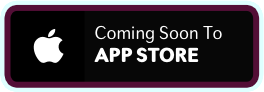
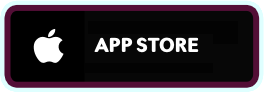
added a few stuff

Changed region(s): [[0.3333, 0.2826, 0.8485, 0.6957]]

diff --git a/reward.html b/reward.html
@@ -59,7 +59,7 @@
 <meta name="twitter:site" content="@superbunnyls">
 <meta name="twitter:creator" content="@dvd_pt">
 <meta name="twitter:image:src" content="https://superbunnylaserspikes.imaginationoverflow.com/img/navbar/MainIcon.png">
-<meta name="twitter:player" content="https://www.youtube.com/watch?v=hj5L66R_sfw">
+<meta name="twitter:player" content="https://www.youtube.com/watch?v=a-fSzt1X_Ig">
 <!-- Twitter - Mobile App (iOS & Android) -->
 <meta name="twitter:app:id:iphone" content="1356606054">
 <meta name="twitter:app:name:iphone" content="Super Bunny Laser Spikes">
@@ -75,7 +75,7 @@
 <meta name="og:image" content="https://superbunnylaserspikes.imaginationoverflow.com/img/navbar/MainIcon.png">
 <meta name="og:url" content="https://superbunnylaserspikes.imaginationoverflow.com">
 <meta name="og:site_name" content="Super Bunny Laser Spikes">
-<meta name="og:video" content="https://www.youtube.com/watch?v=hj5L66R_sfw">
+<meta name="og:video" content="https://www.youtube.com/watch?v=a-fSzt1X_Ig">
 <meta name="og:type" content="website">
 <!-- Open Graph - Mobile App (iOS & Android) -->
 <meta name="al:ios:app_store_id" content="1356606054">
@@ -126,7 +126,7 @@
                 <!-- Collect the nav links, forms, and other content for toggling -->
                 <div class="collapse navbar-collapse" id="bs-example-navbar-collapse-1">
                     <ul class="nav navbar-nav">
-                        <li class="active"><a href="#betaTester">Beta Test</a></li>
+                        <li class="active"><a href="#betaTester">Mailing List</a></li>
 						<li class="active"><a href="https://www.patreon.com/imaginationoverflow/posts?tag=Super%20Bunny%20Laser%20Spikes">Blog</a></li>
 						<li class="active"><a href="https://www.brightlocker.com/games/super-bunny-laser-spikes">Brightlocker</a></li>
 						
@@ -142,10 +142,7 @@
         
         <!--================Banner Nine Area =================-->
         <section class="banner_nine_area" id="home">
-		 <div class="open-popup" >
-                                <a id="deeplink" href="#"  class="open-popup subscribe_button">Open Reward</a>
-
-					   </div>
+		
 					   <script>
 
 							var baseUrl = window.location.href;
@@ -159,25 +156,43 @@
                     <div class="col-md-5">
                         <div class="b_nine_image">
                             <img src="img/header/bunny.png" alt="">
+							
+							
                         </div>
                     </div>
         			<div class="col-md-7">
         				<div class="b_nine_text">
+						
+							<div class="nine_title" style="padding-bottom: 0px;">
+								<h2 style="font-size: 25px;font-family: 'secondasoft-heavyuploadedfile';text-shadow:0 0px 20px #000000;text-transform;
+								text-shadow: #28736C 4px 0px 0px, #28736C 3.87565px 0.989616px 0px, #28736C 3.51033px 1.9177px 0px, #28736C 2.92676px 2.72656px 0px, #28736C 2.16121px 3.36588px 0px, #28736C 1.26129px 3.79594px 0px, #28736C 0.282949px 3.98998px 0px, #28736C -0.712984px 3.93594px 0px, #28736C -1.66459px 3.63719px 0px, #28736C -2.51269px 3.11229px 0px, #28736C -3.20457px 2.39389px 0px, #28736C -3.69721px 1.52664px 0px, #28736C -3.95997px 0.56448px 0px, #28736C -3.97652px -0.432781px 0px, #28736C -3.74583px -1.40313px 0px, #28736C -3.28224px -2.28625px 0px, #28736C -2.61457px -3.02721px 0px, #28736C -1.78435px -3.57996px 0px, #28736C -0.843183px -3.91012px 0px, #28736C 0.150409px -3.99717px 0px, #28736C 1.13465px -3.8357px 0px, #28736C 2.04834px -3.43574px 0px, #28736C 2.83468px -2.82216px 0px, #28736C 3.44477px -2.03312px 0px, #28736C 3.84068px -1.11766px 0px, #28736C 3.9978px -0.132717px 0px" class="nine_title">
+							Click on <font color="#F78E39" style="
+							text-shadow: #63003D 4px 0px 0px, #63003D 3.87565px 0.989616px 0px, #63003D 3.51033px 1.9177px 0px, #63003D 2.92676px 2.72656px 0px, #63003D 2.16121px 3.36588px 0px, #63003D 1.26129px 3.79594px 0px, #63003D 0.282949px 3.98998px 0px, #63003D -0.712984px 3.93594px 0px, #63003D -1.66459px 3.63719px 0px, #63003D -2.51269px 3.11229px 0px, #63003D -3.20457px 2.39389px 0px, #63003D -3.69721px 1.52664px 0px, #63003D -3.95997px 0.56448px 0px, #63003D -3.97652px -0.432781px 0px, #63003D -3.74583px -1.40313px 0px, #63003D -3.28224px -2.28625px 0px, #63003D -2.61457px -3.02721px 0px, #63003D -1.78435px -3.57996px 0px, #63003D -0.843183px -3.91012px 0px, #63003D 0.150409px -3.99717px 0px, #63003D 1.13465px -3.8357px 0px, #63003D 2.04834px -3.43574px 0px, #63003D 2.83468px -2.82216px 0px, #63003D 3.44477px -2.03312px 0px, #63003D 3.84068px -1.11766px 0px, #63003D 3.9978px -0.132717px 0px
+							"><b>OPEN REWARD</b></font> if you have the game installed, if not, install it and come back to collect your reward!
+							</h2>
+							</div>
+							<div class="open-popup" style="padding-left:25%;margin-bottom:24px">
+                                <a id="deeplink"  href="#"  class="open-popup subscribe_button">Open Reward</a>
+							</div>
+							
+						
                             <img class="logo"src="img/header/bunny-logo.png" alt="">
+							
                             <div class="row">
                                 <div class="col-md-4">
                                   <div class="b_header_badges">
-                                        <img class="store_badge" src="img/header/apple-badge.png" alt="">
+                                        <a href="https://itunes.apple.com/us/app/super-bunny-laser-spikes/id1356606054?ls=1&mt=8"><img class="store_badge" src="img/header/apple-badge.png" alt=""></a>
                                   </div>
                                 </div>
                                 <div class="col-md-4">
                                   <div class="b_header_badges">
-                                        <img class="store_badge" src="img/header/android-badge.png" alt="">
+                                        <a href="https://play.google.com/store/apps/details?id=com.imaginationoverflow.superbunnylaserspikes"><img class="store_badge" src="img/header/android-badge.png" alt=""></a>
                                   </div>
                                 </div>
                                 <div class="col-md-4">
                                   <div class="b_header_badges">
-                                        <img class="store_badge" src="img/header/windows-badge.png" alt="">
+								  <a href="https://www.microsoft.com/store/apps/9P970Z51MJMK">
+                                        <img class="store_badge" src="img/header/windows-badge.png" alt=""></a>
                                   </div>
                                 </div>
                             </div>
@@ -194,7 +209,7 @@
 		<div class="container">
 		<style>.embed-container { position: relative; padding-bottom: 56.25%; height: 0; overflow: hidden; max-width: 100%; } .embed-container iframe, .embed-container object, .embed-container embed { position: absolute; top: 0; left: 0; width: 100%; height: 100%;  }</style>
 		
-		<div class='embed-container'><iframe  src='https://www.youtube.com/embed/hj5L66R_sfw' frameborder='0' allowfullscreen></iframe></div>
+		<div class='embed-container'><iframe  src='https://www.youtube.com/embed/a-fSzt1X_Ig' frameborder='0' allowfullscreen></iframe></div>
 		</div>
 		</section>
         <!--================End Banner Nine Area =================-->
@@ -219,9 +234,9 @@
                    <div class="col-md-7">
                         <div class="ab_nine_text">
                             <div class="nine_title">
-                                <h2>Became A Beta Tester</h2>
+                                <h2>Join our mailing list</h2>
                             </div>
-                            <h4>Sign up for beta testing the game or just get an heads up when it gets released!</h4>
+                            <h4>Sign up and get all the news and updates of Super Bunny Laser Spikes directly in your inbox!</h4>
                       
                                 <!--<div id="mc_embed_signup row subscribe_form">
 
@@ -256,7 +271,7 @@
                                 </div>-->
 
                                
-                                <a href="#" id="open-popup" class="open-popup subscribe_button">Join the Beta</a>
+                                <a href="#" id="open-popup" class="open-popup subscribe_button">Join</a>
        
 
 

diff --git a/store.html b/store.html
@@ -1,0 +1,134 @@
+<!DOCTYPE html>
+<html lang="en">
+    <head>
+        <meta charset="utf-8">
+        <meta http-equiv="X-UA-Compatible" content="IE=edge">
+        <meta name="viewport" content="width=device-width, initial-scale=1">
+        
+        <link rel="icon" href="img/favicon-32x32.png" type="image/x-icon" />
+        <link rel="apple-touch-icon" sizes="180x180" href="img/apple-touch-icon.png">
+        <link rel="icon" type="image/png" sizes="32x32" href="img/favicon-32x32.png">
+        <link rel="icon" type="image/png" sizes="16x16" href="img/favicon-16x16.png">
+        <link rel="manifest" href="img/site.webmanifest">
+        <link rel="mask-icon" href="img/safari-pinned-tab.svg" color="#5bbad5">
+        <meta name="msapplication-TileColor" content="#da532c">
+        <meta name="theme-color" content="#ffffff">
+        <!-- The above 3 meta tags *must* come first in the head; any other head content must come *after* these tags -->
+        <title>Super Bunny Laser Spikes</title>
+
+        <!-- Icon css link -->
+        <link href="css/font-awesome.min.css" rel="stylesheet">
+        <link rel="stylesheet" href="css/font-custom.min.css">
+        <link href="css/icofont.css" rel="stylesheet">
+        <link href="vendors/linear-icon/style.css" rel="stylesheet">
+        
+        <!-- Bootstrap -->
+        <link href="css/bootstrap.min.css" rel="stylesheet">
+        
+        <!-- Rev slider css -->
+        <link href="vendors/revolution/css/settings.css" rel="stylesheet">
+        <link href="vendors/revolution/css/layers.css" rel="stylesheet">
+        <link href="vendors/revolution/css/navigation.css" rel="stylesheet">
+        <link href="vendors/animate-css/animate.css" rel="stylesheet">
+        
+        <!-- Extra plugin css -->
+        <link href="vendors/magnific-popup/magnific-popup.css" rel="stylesheet">
+        <link href="vendors/owl-carousel/assets/owl.carousel.min.css" rel="stylesheet">
+        <link href="vendors/swiper/css/swiper.min.css" rel="stylesheet">
+        
+        <link href="css/style.css" rel="stylesheet">
+        <link href="css/responsive.css" rel="stylesheet">
+
+<!-- COMMON TAGS -->
+<meta charset="utf-8">
+<title>Super Bunny Laser Spikes</title>
+<!-- Search Engine -->
+<meta name="description" content="Super Bunny Laser Spikes is a vertical jumper where you control a Bunny that is leaping for its life! You have to dodge enemies, eat carrots in order to unlock all the awesome Power-Ups and Gizmos available.">
+<meta name="image" content="https://superbunnylaserspikes.imaginationoverflow.com/img/navbar/MainIcon.png">
+<!-- Schema.org for Google -->
+<meta itemprop="name" content="Super Bunny Laser Spikes">
+<meta itemprop="description" content="Super Bunny Laser Spikes is a vertical jumper where you control a Bunny that is leaping for its life! You have to dodge enemies, eat carrots in order to unlock all the awesome Power-Ups and Gizmos available.">
+<meta itemprop="image" content="https://superbunnylaserspikes.imaginationoverflow.com/img/navbar/MainIcon.png">
+<!-- Mobile App for iOS & Android -->
+<meta name="apple-itunes-app" content="app-id=1356606054">
+<meta name="google-play-app" content="app-id=com.imaginationoverflow.superbunnylaserspikes">
+<!-- Twitter -->
+<meta name="twitter:card" content="app">
+<meta name="twitter:title" content="Super Bunny Laser Spikes">
+<meta name="twitter:description" content="Super Bunny Laser Spikes is a vertical jumper where you control a Bunny that is leaping for its life! You have to dodge enemies, eat carrots in order to unlock all the awesome Power-Ups and Gizmos available.">
+<meta name="twitter:site" content="@superbunnyls">
+<meta name="twitter:creator" content="@dvd_pt">
+<meta name="twitter:image:src" content="https://superbunnylaserspikes.imaginationoverflow.com/img/navbar/MainIcon.png">
+<meta name="twitter:player" content="https://www.youtube.com/watch?v=a-fSzt1X_Ig">
+<!-- Twitter - Mobile App (iOS & Android) -->
+<meta name="twitter:app:id:iphone" content="1356606054">
+<meta name="twitter:app:name:iphone" content="Super Bunny Laser Spikes">
+<meta name="twitter:app:url:iphone" content="superbunnylaserspikes://">
+<meta name="twitter:app:id:googleplay" content="com.imaginationoverflow.superbunnylaserspikes">
+<meta name="twitter:app:name:googleplay" content="Super Bunny Laser Spikes">
+<meta name="twitter:app:url:googleplay" content="superbunnylaserspikes://">
+
+<meta name="twitter:text:title" content="Super Bunny Laser Spikes">
+<!-- Open Graph general (Facebook, Pinterest & Google+) -->
+<meta name="og:title" content="Super Bunny Laser Spikes">
+<meta name="og:description" content="Super Bunny Laser Spikes is a vertical jumper where you control a Bunny that is leaping for its life! You have to dodge enemies, eat carrots in order to unlock all the awesome Power-Ups and Gizmos available.">
+<meta name="og:image" content="https://superbunnylaserspikes.imaginationoverflow.com/img/navbar/MainIcon.png">
+<meta name="og:url" content="https://superbunnylaserspikes.imaginationoverflow.com">
+<meta name="og:site_name" content="Super Bunny Laser Spikes">
+<meta name="og:video" content="https://www.youtube.com/watch?v=a-fSzt1X_Ig">
+<meta name="og:type" content="website">
+<!-- Open Graph - Mobile App (iOS & Android) -->
+<meta name="al:ios:app_store_id" content="1356606054">
+<meta name="al:ios:app_name" content="Super Bunny Laser Spikes">
+<meta name="al:ios:url" content="superbunnylaserspikes://">
+<meta name="al:android:package" content="com.imaginationoverflow.superbunnylaserspikes">
+<meta name="al:android:app_name" content="Super Bunny Laser Spikes">
+<meta name="al:android:url" content="superbunnylaserspikes://">
+<script src="//cdn.jsdelivr.net/npm/mobile-detect@1.4.2/mobile-detect.min.js"></script>
+
+
+        <!-- HTML5 shim and Respond.js for IE8 support of HTML5 elements and media queries -->
+        <!-- WARNING: Respond.js doesn't work if you view the page via file:// -->
+        <!--[if lt IE 9]>
+        <script src="https://oss.maxcdn.com/html5shiv/3.7.3/html5shiv.min.js"></script>
+        <script src="https://oss.maxcdn.com/respond/1.4.2/respond.min.js"></script>
+        <![endif]-->
+    </head>
+<body>
+<script>
+var md = new MobileDetect(window.navigator.userAgent);
+
+if(md.mobile())
+{
+	var os = md.os();
+	if(os == "AndroidOS")
+		window.location.replace("https://play.google.com/store/apps/details?id=com.imaginationoverflow.superbunnylaserspikes");
+	else if(os == "iOS")
+		window.location.replace("https://itunes.apple.com/us/app/super-bunny-laser-spikes/id1356606054?ls=1&mt=8");
+	else if(os == "WindowsMobileOS" || os == WindowsPhoneOS)
+		window.location.replace("https://www.microsoft.com/store/apps/9P970Z51MJMK");
+	else
+		window.location.replace("/");
+		
+} 
+else
+{
+	window.location.replace("/");
+}
+</script>
+</body>
+
+
+
+
+
+
+
+
+
+
+
+
+
+
+       

diff --git a/index.html b/index.html
@@ -59,7 +59,7 @@
 <meta name="twitter:site" content="@superbunnyls">
 <meta name="twitter:creator" content="@dvd_pt">
 <meta name="twitter:image:src" content="https://superbunnylaserspikes.imaginationoverflow.com/img/navbar/MainIcon.png">
-<meta name="twitter:player" content="https://www.youtube.com/watch?v=hj5L66R_sfw">
+<meta name="twitter:player" content="https://www.youtube.com/watch?v=a-fSzt1X_Ig">
 <!-- Twitter - Mobile App (iOS & Android) -->
 <meta name="twitter:app:id:iphone" content="1356606054">
 <meta name="twitter:app:name:iphone" content="Super Bunny Laser Spikes">
@@ -75,7 +75,7 @@
 <meta name="og:image" content="https://superbunnylaserspikes.imaginationoverflow.com/img/navbar/MainIcon.png">
 <meta name="og:url" content="https://superbunnylaserspikes.imaginationoverflow.com">
 <meta name="og:site_name" content="Super Bunny Laser Spikes">
-<meta name="og:video" content="https://www.youtube.com/watch?v=hj5L66R_sfw">
+<meta name="og:video" content="https://www.youtube.com/watch?v=a-fSzt1X_Ig">
 <meta name="og:type" content="website">
 <!-- Open Graph - Mobile App (iOS & Android) -->
 <meta name="al:ios:app_store_id" content="1356606054">
@@ -126,7 +126,7 @@
                 <!-- Collect the nav links, forms, and other content for toggling -->
                 <div class="collapse navbar-collapse" id="bs-example-navbar-collapse-1">
                     <ul class="nav navbar-nav">
-                        <li class="active"><a href="#betaTester">Beta Test</a></li>
+                        <li class="active"><a href="#betaTester">Mailing List</a></li>
 						<li class="active"><a href="https://www.patreon.com/imaginationoverflow/posts?tag=Super%20Bunny%20Laser%20Spikes">Blog</a></li>
 						<li class="active"><a href="https://www.brightlocker.com/games/super-bunny-laser-spikes">Brightlocker</a></li>
 						
@@ -155,17 +155,18 @@
                             <div class="row">
                                 <div class="col-md-4">
                                   <div class="b_header_badges">
-                                        <img class="store_badge" src="img/header/apple-badge.png" alt="">
+                                        <a href="https://itunes.apple.com/us/app/super-bunny-laser-spikes/id1356606054?ls=1&mt=8"><img class="store_badge" src="img/header/apple-badge.png" alt=""></a>
                                   </div>
                                 </div>
                                 <div class="col-md-4">
                                   <div class="b_header_badges">
-                                        <img class="store_badge" src="img/header/android-badge.png" alt="">
+                                        <a href="https://play.google.com/store/apps/details?id=com.imaginationoverflow.superbunnylaserspikes"><img class="store_badge" src="img/header/android-badge.png" alt=""></a>
                                   </div>
                                 </div>
                                 <div class="col-md-4">
                                   <div class="b_header_badges">
-                                        <img class="store_badge" src="img/header/windows-badge.png" alt="">
+								  <a href="https://www.microsoft.com/store/apps/9P970Z51MJMK">
+                                        <img class="store_badge" src="img/header/windows-badge.png" alt=""></a>
                                   </div>
                                 </div>
                             </div>
@@ -182,7 +183,7 @@
 		<div class="container">
 		<style>.embed-container { position: relative; padding-bottom: 56.25%; height: 0; overflow: hidden; max-width: 100%; } .embed-container iframe, .embed-container object, .embed-container embed { position: absolute; top: 0; left: 0; width: 100%; height: 100%;  }</style>
 		
-		<div class='embed-container'><iframe  src='https://www.youtube.com/embed/hj5L66R_sfw' frameborder='0' allowfullscreen></iframe></div>
+		<div class='embed-container'><iframe  src='https://www.youtube.com/embed/a-fSzt1X_Ig' frameborder='0' allowfullscreen></iframe></div>
 		</div>
 		</section>
         <!--================End Banner Nine Area =================-->
@@ -207,9 +208,9 @@
                    <div class="col-md-7">
                         <div class="ab_nine_text">
                             <div class="nine_title">
-                                <h2>Become A Beta Tester</h2>
+                                <h2>Join our mailing list</h2>
                             </div>
-                            <h4>Sign up for beta testing the game or just get an heads up when it gets released!</h4>
+                            <h4>Sign up and get all the news and updates of Super Bunny Laser Spikes directly in your inbox!</h4>
                       
                                 <!--<div id="mc_embed_signup row subscribe_form">
 
@@ -244,7 +245,7 @@
                                 </div>-->
 
                                
-                                <a href="#" id="open-popup" class="open-popup subscribe_button">Join the Beta</a>
+                                <a href="#" id="open-popup" class="open-popup subscribe_button">Join</a>
        
 
 
